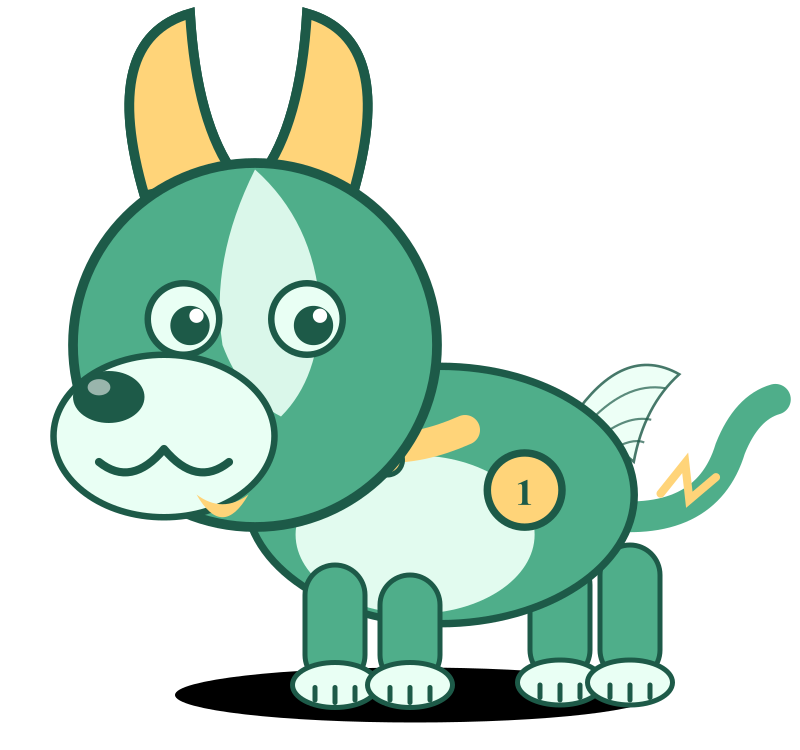
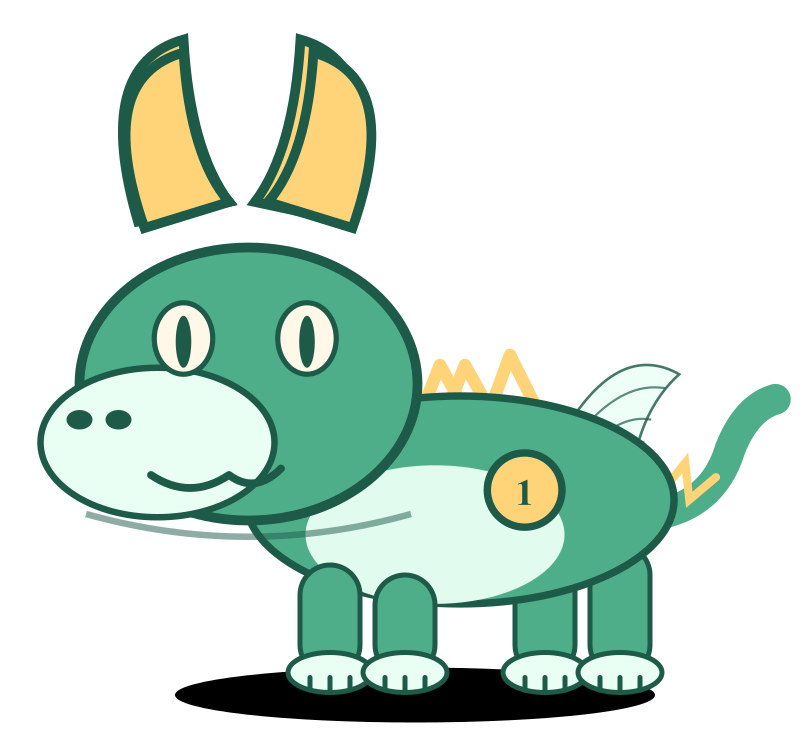
[DSM2001] feat: redesign six companion species silhouettes

Changed region(s): [[0.0312, 0.0, 0.8438, 0.9507]]

diff --git a/src/features/pet/CompanionAvatar.vue b/src/features/pet/CompanionAvatar.vue
@@ -22,15 +22,40 @@ interface Look {
   whiskers?: boolean
   cheeks?: boolean
   wings?: boolean
+  build: {
+    body: { cx: number; cy: number; rx: number; ry: number }
+    belly: { cx: number; cy: number; rx: number; ry: number }
+    head: { cx: number; cy: number; r: number }
+    legs: readonly { x: number; y: number; w: number; h: number }[]
+    tailWidth: number
+  }
 }
 
 const LOOKS: Record<CompanionId, Look> = {
-  'companion-cat': { name: '小猫', body: '#e8a25a', belly: '#fff3df', dark: '#8a5a2b', accent: '#ff9db0', ear: 'pointed', tail: 'curl', whiskers: true },
-  'companion-dog': { name: '小狗', body: '#c98a4b', belly: '#f7e6cf', dark: '#6b421f', accent: '#2fb9e8', ear: 'floppy', tail: 'up' },
-  'companion-hamster': { name: '仓鼠', body: '#d9a45b', belly: '#fff7e6', dark: '#8a5a2b', accent: '#ffb3c1', ear: 'round', tail: 'short', cheeks: true },
-  'companion-lion': { name: '狮子', body: '#d9a24f', belly: '#fff0d2', dark: '#6b421f', accent: '#ffd479', ear: 'round', tail: 'tuft', mane: true },
-  'companion-tiger': { name: '老虎', body: '#e08a3c', belly: '#fff1d6', dark: '#3a2412', accent: '#ffd479', ear: 'round', tail: 'striped', stripes: true },
-  'companion-dragon': { name: '龙', body: '#4fae8a', belly: '#e9fff4', dark: '#1d5a48', accent: '#ffd479', ear: 'horn', tail: 'spiked', wings: true },
+  'companion-cat': {
+    name: '小猫', body: '#e8a25a', belly: '#fff3df', dark: '#8a5a2b', accent: '#ff9db0', ear: 'pointed', tail: 'curl', whiskers: true,
+    build: { body: { cx: 176, cy: 198, rx: 78, ry: 52 }, belly: { cx: 166, cy: 214, rx: 48, ry: 32 }, head: { cx: 102, cy: 138, r: 56 }, legs: [{ x: 212, y: 222, w: 24, h: 50 }, { x: 240, y: 218, w: 24, h: 54 }, { x: 122, y: 226, w: 24, h: 48 }, { x: 152, y: 230, w: 24, h: 44 }], tailWidth: 15 },
+  },
+  'companion-dog': {
+    name: '小狗', body: '#c98a4b', belly: '#f7e6cf', dark: '#6b421f', accent: '#2fb9e8', ear: 'floppy', tail: 'up',
+    build: { body: { cx: 176, cy: 198, rx: 78, ry: 52 }, belly: { cx: 166, cy: 214, rx: 48, ry: 32 }, head: { cx: 102, cy: 138, r: 56 }, legs: [{ x: 212, y: 222, w: 24, h: 50 }, { x: 240, y: 218, w: 24, h: 54 }, { x: 122, y: 226, w: 24, h: 48 }, { x: 152, y: 230, w: 24, h: 44 }], tailWidth: 15 },
+  },
+  'companion-hamster': {
+    name: '仓鼠', body: '#d9a45b', belly: '#fff7e6', dark: '#8a5a2b', accent: '#ffb3c1', ear: 'round', tail: 'short', cheeks: true,
+    build: { body: { cx: 168, cy: 210, rx: 64, ry: 56 }, belly: { cx: 168, cy: 222, rx: 46, ry: 38 }, head: { cx: 108, cy: 156, r: 50 }, legs: [{ x: 198, y: 240, w: 20, h: 28 }, { x: 220, y: 242, w: 20, h: 26 }, { x: 134, y: 242, w: 20, h: 26 }, { x: 154, y: 244, w: 20, h: 24 }], tailWidth: 8 },
+  },
+  'companion-lion': {
+    name: '狮子', body: '#d9a24f', belly: '#fff0d2', dark: '#6b421f', accent: '#ffd479', ear: 'round', tail: 'tuft', mane: true,
+    build: { body: { cx: 182, cy: 198, rx: 86, ry: 54 }, belly: { cx: 172, cy: 214, rx: 52, ry: 34 }, head: { cx: 102, cy: 142, r: 58 }, legs: [{ x: 208, y: 220, w: 28, h: 52 }, { x: 238, y: 216, w: 28, h: 56 }, { x: 116, y: 224, w: 28, h: 48 }, { x: 148, y: 228, w: 28, h: 44 }], tailWidth: 15 },
+  },
+  'companion-tiger': {
+    name: '老虎', body: '#e08a3c', belly: '#fff1d6', dark: '#3a2412', accent: '#ffd479', ear: 'round', tail: 'striped', stripes: true,
+    build: { body: { cx: 180, cy: 194, rx: 88, ry: 46 }, belly: { cx: 170, cy: 208, rx: 52, ry: 30 }, head: { cx: 100, cy: 136, r: 58 }, legs: [{ x: 208, y: 216, w: 26, h: 56 }, { x: 238, y: 212, w: 26, h: 60 }, { x: 116, y: 220, w: 26, h: 52 }, { x: 148, y: 224, w: 26, h: 48 }], tailWidth: 17 },
+  },
+  'companion-dragon': {
+    name: '龙', body: '#4fae8a', belly: '#e9fff4', dark: '#1d5a48', accent: '#ffd479', ear: 'horn', tail: 'spiked', wings: true,
+    build: { body: { cx: 184, cy: 200, rx: 86, ry: 42 }, belly: { cx: 174, cy: 214, rx: 52, ry: 28 }, head: { cx: 100, cy: 146, r: 48 }, legs: [{ x: 206, y: 222, w: 24, h: 48 }, { x: 236, y: 218, w: 24, h: 52 }, { x: 120, y: 226, w: 24, h: 44 }, { x: 150, y: 230, w: 24, h: 40 }], tailWidth: 15 },
+  },
 }
 
 const props = defineProps<{ animalId: CompanionId; mood: number; level?: number }>()
@@ -43,6 +68,9 @@ let timer: number | undefined
 
 const look = computed(() => LOOKS[props.animalId] ?? LOOKS['companion-dog'])
 const isCat = computed(() => props.animalId === 'companion-cat')
+const isFeline = computed(() => isCat.value || props.animalId === 'companion-tiger' || props.animalId === 'companion-lion')
+const isHamster = computed(() => props.animalId === 'companion-hamster')
+const isDragon = computed(() => props.animalId === 'companion-dragon')
 const mood = computed(() => {
   const raw = Number.isFinite(props.mood) ? props.mood : 0
   return Math.min(100, Math.max(0, Math.round(raw)))
@@ -82,6 +110,9 @@ const wingTransform = computed(() => `translate(250 170) scale(${0.35 + params.v
 const svgStyle = computed(() => ({ filter: `saturate(${0.9 + params.value.feature * 0.3}) brightness(${1.02 - params.value.feature * 0.06})` }))
 const eyeR = computed(() => 11 - params.value.sharp * 1.5)
 const maneR = computed(() => 40 + params.value.feature * 60)
+
+const build = computed(() => look.value.build)
+const headOffsetTransform = computed(() => `translate(${build.value.head.cx - 102} ${build.value.head.cy - 138})`)
 
 const tailPath = computed(() => {
   switch (look.value.tail) {
@@ -123,7 +154,7 @@ onBeforeUnmount(() => { if (timer !== undefined) window.clearTimeout(timer) })
   >
     <svg viewBox="0 0 320 300" role="img" :style="svgStyle" :aria-label="`站立的${look.name}，Lv.${level}，心情 ${mood}/100`">
       <ellipse class="companion__shadow" cx="166" cy="278" rx="96" ry="11" />
-      <circle v-if="level >= 15" class="companion__aura" cx="160" cy="178" r="116" />
+      <circle v-if="level >= 15" class="companion__aura" cx="160" cy="178" r="116" fill="rgba(255,212,121,0.16)" />
 
       <!-- 龙翼（身体后面） -->
       <g v-if="look.wings" :transform="wingTransform">
@@ -136,7 +167,7 @@ onBeforeUnmount(() => { if (timer !== undefined) window.clearTimeout(timer) })
       <!-- 尾巴 -->
       <g :transform="tailTransform">
         <g class="companion__tail">
-        <path :d="tailPath" fill="none" :stroke="look.body" stroke-width="15" stroke-linecap="round" />
+        <path :d="tailPath" fill="none" :stroke="look.body" :stroke-width="build.tailWidth" stroke-linecap="round" />
         <path v-if="look.tail === 'spiked'" d="M270 196 l12 -15 l2 18 l13 -11" fill="none" :stroke="look.accent" stroke-width="4" stroke-linecap="round" />
         <circle v-if="look.tail === 'tuft'" cx="284" cy="160" r="14" :fill="look.dark" />
         <path v-if="look.tail === 'striped'" d="M262 194 l8 12 M274 178 l8 12 M284 160 l8 12" :stroke="look.dark" stroke-width="5" stroke-linecap="round" />
@@ -145,17 +176,24 @@ onBeforeUnmount(() => { if (timer !== undefined) window.clearTimeout(timer) })
 
       <!-- 后腿 -->
       <g :transform="legTransform" class="companion__legs companion__legs--back">
-        <rect x="212" y="222" width="24" height="50" rx="12" :fill="look.body" :stroke="look.dark" stroke-width="2" />
-        <rect x="240" y="218" width="24" height="54" rx="12" :fill="look.body" :stroke="look.dark" stroke-width="2" />
-        <ellipse cx="224" cy="273" rx="17" ry="9" :fill="look.belly" :stroke="look.dark" stroke-width="2" />
-        <ellipse cx="252" cy="273" rx="17" ry="9" :fill="look.belly" :stroke="look.dark" stroke-width="2" />
-        <path d="M216 274 v5 M224 274 v6 M232 274 v5 M244 274 v5 M252 274 v6 M260 274 v5" :stroke="look.dark" stroke-width="2" stroke-linecap="round" />
+        <template v-for="(leg, index) in build.legs.slice(0, 2)" :key="index">
+          <rect :x="leg.x" :y="leg.y" :width="leg.w" :height="leg.h" :rx="leg.w / 2" :fill="look.body" :stroke="look.dark" stroke-width="2" />
+          <ellipse :cx="leg.x + leg.w / 2" :cy="leg.y + leg.h - 1" :rx="leg.w * 0.7" :ry="8" :fill="look.belly" :stroke="look.dark" stroke-width="2" />
+          <path :d="`M${leg.x + 4} ${leg.y + leg.h + 1} v5 M${leg.x + leg.w / 2} ${leg.y + leg.h + 1} v6 M${leg.x + leg.w - 4} ${leg.y + leg.h + 1} v5`" :stroke="look.dark" stroke-width="2" stroke-linecap="round" />
+        </template>
+      </g>
+
+      <!-- 龙的脖子与背刺，拉长爬行动物轮廓 -->
+      <g v-if="isDragon" class="companion__dragon-neck" aria-hidden="true">
+        <path d="M112 162 Q132 184 168 194" fill="none" :stroke="look.body" stroke-width="38" stroke-linecap="round" />
+        <path d="M150 168 l8 -18 l10 16 l8 -20 l10 18" fill="none" :stroke="look.accent" stroke-width="5" stroke-linecap="round" stroke-linejoin="round" />
+        <path d="M178 166 l8 -20 l10 18 l8 -22 l10 20" fill="none" :stroke="look.accent" stroke-width="5" stroke-linecap="round" stroke-linejoin="round" />
       </g>
 
       <!-- 身体 -->
       <g :transform="bodyTransform">
-      <ellipse cx="176" cy="198" rx="78" ry="52" :fill="look.body" :stroke="look.dark" stroke-width="3" />
-      <ellipse cx="166" cy="214" rx="48" ry="32" :fill="look.belly" opacity="0.95" />
+      <ellipse :cx="build.body.cx" :cy="build.body.cy" :rx="build.body.rx" :ry="build.body.ry" :fill="look.body" :stroke="look.dark" stroke-width="3" />
+      <ellipse :cx="build.belly.cx" :cy="build.belly.cy" :rx="build.belly.rx" :ry="build.belly.ry" :fill="look.belly" opacity="0.95" />
 
       <!-- 老虎条纹 -->
       <g v-if="look.stripes" :stroke="look.dark" stroke-width="4" stroke-linecap="round" :opacity="0.25 + params.feature * 0.75">
@@ -179,18 +217,21 @@ onBeforeUnmount(() => { if (timer !== undefined) window.clearTimeout(timer) })
 
       <!-- 前腿 -->
       <g :transform="legTransform" class="companion__legs companion__legs--front">
-        <rect x="122" y="226" width="24" height="48" rx="12" :fill="look.body" :stroke="look.dark" stroke-width="2" />
-        <rect x="152" y="230" width="24" height="44" rx="12" :fill="look.body" :stroke="look.dark" stroke-width="2" />
-        <ellipse cx="134" cy="274" rx="17" ry="9" :fill="look.belly" :stroke="look.dark" stroke-width="2" />
-        <ellipse cx="164" cy="274" rx="17" ry="9" :fill="look.belly" :stroke="look.dark" stroke-width="2" />
-        <path d="M126 275 v5 M134 275 v6 M142 275 v5 M156 275 v5 M164 275 v6 M172 275 v5" :stroke="look.dark" stroke-width="2" stroke-linecap="round" />
+        <template v-for="(leg, index) in build.legs.slice(2, 4)" :key="index">
+          <rect :x="leg.x" :y="leg.y" :width="leg.w" :height="leg.h" :rx="leg.w / 2" :fill="look.body" :stroke="look.dark" stroke-width="2" />
+          <ellipse :cx="leg.x + leg.w / 2" :cy="leg.y + leg.h - 1" :rx="leg.w * 0.7" :ry="8" :fill="look.belly" :stroke="look.dark" stroke-width="2" />
+          <path :d="`M${leg.x + 4} ${leg.y + leg.h + 1} v5 M${leg.x + leg.w / 2} ${leg.y + leg.h + 1} v6 M${leg.x + leg.w - 4} ${leg.y + leg.h + 1} v5`" :stroke="look.dark" stroke-width="2" stroke-linecap="round" />
+        </template>
       </g>
 
-      <!-- 项圈 -->
-      <path d="M124 168 Q150 188 186 172" fill="none" :stroke="look.accent" stroke-width="12" stroke-linecap="round" />
-      <circle cx="155" cy="184" r="6" :fill="look.accent" :stroke="look.dark" stroke-width="2" />
+      <!-- 项圈只给家养伙伴（猫/狗），野生伙伴不戴 -->
+      <g v-if="isCat || animalId === 'companion-dog'">
+        <path d="M124 168 Q150 188 186 172" fill="none" :stroke="look.accent" stroke-width="12" stroke-linecap="round" />
+        <circle cx="155" cy="184" r="6" :fill="look.accent" :stroke="look.dark" stroke-width="2" />
+      </g>
 
       <g :transform="headTransform">
+      <g :transform="headOffsetTransform">
       <!-- 狮子鬃毛 -->
       <circle v-if="look.mane" cx="102" cy="138" :r="maneR" :fill="look.dark" opacity="0.95" />
 
@@ -217,30 +258,37 @@ onBeforeUnmount(() => { if (timer !== undefined) window.clearTimeout(timer) })
       </g>
 
       <!-- 猫专属圆脸：短吻、分离胡须垫、三角鼻、竖瞳 -->
-      <g v-if="isCat" class="companion__cat-face">
-        <g class="companion__cat-ears" aria-hidden="true">
+      <g v-if="isFeline" class="companion__cat-face">
+        <g v-if="isCat" class="companion__cat-ears" aria-hidden="true">
           <path d="M52 112 L37 45 Q36 38 44 42 L91 77 Z" :fill="look.body" :stroke="look.dark" stroke-width="3.5" stroke-linejoin="round" />
           <path d="M117 77 L164 42 Q172 38 171 45 L156 112 Z" :fill="look.body" :stroke="look.dark" stroke-width="3.5" stroke-linejoin="round" />
         </g>
-        <circle cx="102" cy="138" r="56" :fill="look.body" :stroke="look.dark" stroke-width="3" />
+        <g v-else class="companion__feline-round-ears" aria-hidden="true">
+          <circle cx="62" cy="99" r="17" :fill="look.body" :stroke="look.dark" stroke-width="3" />
+          <circle cx="142" cy="99" r="17" :fill="look.body" :stroke="look.dark" stroke-width="3" />
+          <circle cx="62" cy="99" r="9" :fill="look.accent" />
+          <circle cx="142" cy="99" r="9" :fill="look.accent" />
+        </g>
+        <circle v-if="look.mane" cx="102" cy="138" :r="maneR" :fill="look.dark" opacity="0.95" />
+        <circle cx="102" cy="138" :r="build.head.r" :fill="look.body" :stroke="look.dark" stroke-width="3" />
         <!-- 内耳粉瓣 -->
-        <g data-feature="cat-inner-ears" aria-hidden="true">
+        <g v-if="isCat" data-feature="cat-inner-ears" aria-hidden="true">
           <path d="M49 89 L44 53 L72 78 Z M132 78 L160 53 L155 89 Z" :fill="look.accent" />
         </g>
         <!-- Lv10 后的颊毛放在脸外沿，不遮眼鼻 -->
-        <g v-if="level >= 10" class="companion__cat-tufts" aria-hidden="true">
+        <g v-if="isCat && level >= 10" class="companion__cat-tufts" aria-hidden="true">
           <path d="M54 151 L31 145 L46 161 L29 169 L53 177 Z" :fill="look.body" :stroke="look.dark" stroke-width="2.5" />
           <path d="M150 151 L173 145 L158 161 L175 169 L151 177 Z" :fill="look.body" :stroke="look.dark" stroke-width="2.5" />
         </g>
         <!-- 猫咪额心斑 -->
-        <path d="M102 89 Q96 106 100 116 Q102 120 104 116 Q108 106 102 89 Z" :fill="look.belly" opacity="0.48" />
+        <path v-if="isCat" d="M102 89 Q96 106 100 116 Q102 120 104 116 Q108 106 102 89 Z" :fill="look.belly" opacity="0.48" />
         <!-- 分开的左右胡须垫 -->
         <g data-feature="cat-whisker-pads">
           <ellipse cx="70" cy="160" rx="16" ry="12" :fill="look.belly" :stroke="look.dark" stroke-width="1.8" />
           <ellipse cx="116" cy="160" rx="16" ry="12" :fill="look.belly" :stroke="look.dark" stroke-width="1.8" />
         </g>
         <!-- 两侧各三根猫须，从垫外侧发出 -->
-        <g class="companion__cat-whiskers" :stroke="look.dark" stroke-width="1.7" stroke-linecap="round" opacity="0.82">
+        <g v-if="isCat" class="companion__cat-whiskers" :stroke="look.dark" stroke-width="1.7" stroke-linecap="round" opacity="0.82">
           <path d="M55 156 L25 148 M54 161 L19 161 M55 166 L27 176" />
           <path d="M127 156 L159 148 M128 161 L165 161 M127 166 L157 176" />
         </g>
@@ -249,7 +297,7 @@ onBeforeUnmount(() => { if (timer !== undefined) window.clearTimeout(timer) })
         <path d="M93 160 L93 165 M93 165 Q86 172 79 167 M93 165 Q100 172 107 167" fill="none" :stroke="look.dark" stroke-width="2.4" stroke-linecap="round" />
         <path v-if="!low" d="M86 177 Q93 190 100 177 Q93 184 86 177 Z" :fill="look.accent" />
         <!-- 竖瞳猫眼 -->
-        <g v-if="!low" data-feature="cat-vertical-pupils">
+        <g v-if="!low && isCat" data-feature="cat-vertical-pupils">
           <ellipse cx="76" cy="127" rx="10" ry="12" fill="#fff8e8" :stroke="look.dark" stroke-width="1.6" />
           <ellipse cx="118" cy="127" rx="10" ry="12" fill="#fff8e8" :stroke="look.dark" stroke-width="1.6" />
           <ellipse cx="76" cy="128" rx="3.2" ry="8" :fill="look.dark" />
@@ -257,12 +305,63 @@ onBeforeUnmount(() => { if (timer !== undefined) window.clearTimeout(timer) })
           <circle cx="77" cy="124" r="2" fill="#fff" />
           <circle cx="119" cy="124" r="2" fill="#fff" />
         </g>
+        <g v-else-if="!low" class="companion__feline-round-pupils">
+          <ellipse cx="76" cy="127" rx="10" ry="12" fill="#fff8e8" :stroke="look.dark" stroke-width="1.6" />
+          <ellipse cx="118" cy="127" rx="10" ry="12" fill="#fff8e8" :stroke="look.dark" stroke-width="1.6" />
+          <circle cx="77" cy="128" r="5" :fill="look.dark" />
+          <circle cx="119" cy="128" r="5" :fill="look.dark" />
+          <circle cx="78" cy="124" r="2" fill="#fff" />
+          <circle cx="120" cy="124" r="2" fill="#fff" />
+        </g>
         <g v-else class="companion__cat-sleepy-eyes">
           <path d="M66 130 Q76 123 86 130 M108 130 Q118 123 128 130" fill="none" :stroke="look.dark" stroke-width="2.8" stroke-linecap="round" />
         </g>
       </g>
 
-      <!-- 非猫伙伴保持原有犬科圆鼻/宽吻与各自耳型 -->
+      <!-- 仓鼠：圆脸、小米粒耳、鼓腮 -->
+      <g v-else-if="isHamster" class="companion__hamster-face">
+        <circle cx="58" cy="104" r="13" :fill="look.body" :stroke="look.dark" stroke-width="2.5" />
+        <circle cx="146" cy="104" r="13" :fill="look.body" :stroke="look.dark" stroke-width="2.5" />
+        <circle cx="58" cy="104" r="6" :fill="look.accent" />
+        <circle cx="146" cy="104" r="6" :fill="look.accent" />
+        <circle cx="102" cy="138" :r="build.head.r" :fill="look.body" :stroke="look.dark" stroke-width="3" />
+        <ellipse cx="62" cy="160" rx="28" ry="22" :fill="look.belly" :stroke="look.dark" stroke-width="1.8" />
+        <ellipse cx="142" cy="160" rx="28" ry="22" :fill="look.belly" :stroke="look.dark" stroke-width="1.8" />
+        <ellipse cx="102" cy="160" rx="24" ry="18" :fill="look.belly" />
+        <ellipse cx="102" cy="153" rx="6" ry="5" :fill="look.accent" :stroke="look.dark" stroke-width="1.5" />
+        <path d="M102 158 L102 164 M102 164 Q96 170 90 166 M102 164 Q108 170 114 166" fill="none" :stroke="look.dark" stroke-width="2.4" stroke-linecap="round" />
+        <path d="M96 166 L96 172 M108 166 L108 172" :stroke="look.belly" stroke-width="3" stroke-linecap="round" />
+        <g v-if="!low">
+          <circle cx="82" cy="128" r="9" :fill="look.belly" :stroke="look.dark" stroke-width="1.6" />
+          <circle cx="122" cy="128" r="9" :fill="look.belly" :stroke="look.dark" stroke-width="1.6" />
+          <circle cx="83" cy="129" r="5" :fill="look.dark" />
+          <circle cx="123" cy="129" r="5" :fill="look.dark" />
+          <circle cx="84" cy="126" r="1.8" fill="#fff" />
+          <circle cx="124" cy="126" r="1.8" fill="#fff" />
+        </g>
+        <g v-else><path d="M73 130 Q82 124 91 130 M113 130 Q122 124 131 130" fill="none" :stroke="look.dark" stroke-width="2.6" stroke-linecap="round" /></g>
+      </g>
+
+      <!-- 龙：长吻爬行动物头，不用狗耳狗鼻 -->
+      <g v-else-if="isDragon" class="companion__dragon-face">
+        <path d="M70 94 Q54 48 82 40 Q84 72 96 86 Z" :fill="look.accent" :stroke="look.dark" stroke-width="3" />
+        <path d="M134 94 Q150 48 122 40 Q120 72 108 86 Z" :fill="look.accent" :stroke="look.dark" stroke-width="3" />
+        <ellipse cx="102" cy="142" rx="52" ry="42" :fill="look.body" :stroke="look.dark" stroke-width="3" />
+        <ellipse cx="74" cy="160" rx="36" ry="23" :fill="look.belly" :stroke="look.dark" stroke-width="2" />
+        <ellipse cx="50" cy="153" rx="4" ry="3" :fill="look.dark" />
+        <ellipse cx="62" cy="153" rx="4" ry="3" :fill="look.dark" />
+        <path d="M72 170 Q84 178 96 170 M96 170 Q104 176 112 168" fill="none" :stroke="look.dark" stroke-width="2.4" stroke-linecap="round" />
+        <g v-if="!low">
+          <ellipse cx="82" cy="128" rx="9" ry="11" fill="#fff8e8" :stroke="look.dark" stroke-width="1.6" />
+          <ellipse cx="120" cy="128" rx="9" ry="11" fill="#fff8e8" :stroke="look.dark" stroke-width="1.6" />
+          <ellipse cx="82" cy="129" rx="2.4" ry="8" :fill="look.dark" />
+          <ellipse cx="120" cy="129" rx="2.4" ry="8" :fill="look.dark" />
+        </g>
+        <g v-else><path d="M73 130 Q82 124 91 130 M111 130 Q120 124 129 130" fill="none" :stroke="look.dark" stroke-width="2.6" stroke-linecap="round" /></g>
+        <path d="M52 182 Q102 196 152 182" fill="none" :stroke="look.dark" stroke-width="2" opacity="0.5" />
+      </g>
+
+      <!-- 其余伙伴保持原有犬科圆鼻/宽吻与各自耳型 -->
       <g v-else class="companion__generic-face">
         <!-- 狮子鬃毛 -->
         <circle v-if="look.mane" cx="102" cy="138" :r="maneR" :fill="look.dark" opacity="0.95" />
@@ -281,7 +380,7 @@ onBeforeUnmount(() => { if (timer !== undefined) window.clearTimeout(timer) })
           <path d="M68 92 Q54 44 82 36 Q84 70 96 86 Z" :fill="look.accent" :stroke="look.dark" stroke-width="3" />
           <path d="M132 92 Q146 44 118 36 Q116 70 104 86 Z" :fill="look.accent" :stroke="look.dark" stroke-width="3" />
         </g>
-        <circle cx="102" cy="138" r="56" :fill="look.body" :stroke="look.dark" stroke-width="3" />
+        <circle cx="102" cy="138" :r="build.head.r" :fill="look.body" :stroke="look.dark" stroke-width="3" />
         <path d="M102 84 Q88 112 92 138 Q98 154 110 160 Q122 148 122 126 Q120 100 102 84 Z" :fill="look.belly" opacity="0.9" />
         <g v-if="look.stripes" :stroke="look.dark" stroke-width="4" stroke-linecap="round" opacity="0.9">
           <path d="M78 100 l-6 16 M96 96 l0 14 M114 100 l6 16" />
@@ -308,12 +407,13 @@ onBeforeUnmount(() => { if (timer !== undefined) window.clearTimeout(timer) })
 
       <!-- 龙角尖光 -->
       <circle v-if="look.wings" cx="292" cy="144" r="4" :fill="look.accent" />
-      </g>
 
-      <!-- 等级徽记 -->
-      <g v-if="level >= 12" class="companion__crest" aria-hidden="true">
-        <path d="M124 62 L138 92 L160 76 L182 92 L196 62 L186 112 L134 112 Z" :fill="look.accent" :stroke="look.dark" stroke-width="2.5" stroke-linejoin="round" />
-        <circle cx="160" cy="96" r="4" :fill="look.dark" />
+      <!-- 皇冠固定在头顶，随头围缩放 -->
+      <g v-if="level >= 12" class="companion__crest" aria-hidden="true" :transform="`translate(102 ${138 - build.head.r - 8}) scale(${build.head.r / 56})`">
+        <path d="M-28 -8 L-14 14 L0 2 L14 14 L28 -8 L22 30 L-22 30 Z" :fill="look.accent" :stroke="look.dark" stroke-width="3" stroke-linejoin="round" />
+        <circle cx="0" cy="16" r="4" :fill="look.dark" />
+      </g>
+      </g>
       </g>
     </svg>
   </button>

diff --git a/tests/features/pet/CompanionAvatar.test.ts b/tests/features/pet/CompanionAvatar.test.ts
@@ -12,7 +12,7 @@ describe('CompanionAvatar', () => {
     expect(view.findAll('.companion__legs rect')).toHaveLength(4)
     expect(view.find('.companion__tail').exists()).toBe(true)
     expect(view.findAll('ellipse').length).toBeGreaterThan(4)
-    expect(view.findAll('circle').length).toBeGreaterThan(4)
+    expect(view.findAll('circle, ellipse').length).toBeGreaterThan(8)
   })
 
   it('小猫使用猫科脸型，明显区别于小狗', () => {

diff --git a/docs/superpowers/specs/2026-11-10-cat-avatar-redesign-design.md b/docs/superpowers/specs/2026-11-10-cat-avatar-redesign-design.md
@@ -1,0 +1,65 @@
+# 小猫伙伴形象重设计
+
+- 日期：2026-11-10
+- 状态：设计已确认，待规格审查
+- 范围：只重做 `CompanionAvatar.vue` 中小猫的脸部造型，解决与小狗过于相似的问题
+
+## 目标
+
+小猫要一眼能认出来是猫，不再像“尖耳小狗”。保留六种伙伴统一的全身站立、圆润幼崽风和等级成长结构，只增加猫科清晰特征。小狗及另外四种伙伴不得回归变化。
+
+## 方案
+
+采用“圆脸萌猫”的 SVG 专属脸部层：
+
+- 小而清楚的倒三角鼻，放在短小口鼻区域中央；
+- 左右分开的圆润胡须垫，不与狗的大块宽吻共用形状；
+- 胡须从胡须垫外缘向左右延伸，每侧三根，不穿过鼻口；
+- 正常心情的瞳孔为猫科竖椭圆，仍保留高光；
+- 耳朵有独立浅粉内耳；
+- 尖耳、长弯尾、Lv.10+ 颊毛保留，但颊毛不得遮挡眼、鼻、胡须垫。
+
+小狗继续使用当前宽圆黑鼻、较宽较长的口鼻、垂耳与狗形嘴线。狗不显示猫的三角鼻、胡须垫或竖瞳。
+
+## 实现边界
+
+- 新增/拆出猫脸局部模板，不改共享身体、四肢、爪、尾、成长参数、经验、等级、状态和动画事件。
+- 面部绘制仍在 `CompanionAvatar.vue` 内，用 `animalId === 'companion-cat'` 选择猫脸分支；不要另建第二套组件以免重复全身结构。
+- 低心情下猫使用半闭眼曲线，鼻、胡须垫、耳内瓣继续保留。
+- 保持 `role="img"`、伙伴名称和心情的可访问名称，以及现有点击 tap 回调。
+
+## 验收标准
+
+1. 猫 SVG 有倒三角鼻、两块分离胡须垫、左右各三根胡须、竖瞳与耳内瓣。
+2. 狗仍有当前宽鼻/宽口鼻/垂耳；不存在猫专属胡须垫、竖瞳或耳瓣。
+3. 六种动物的完整身体、四肢爪、尾巴和成长等级均不改变。
+4. 正常/低心情都保持猫科辨识点，面部元素无重叠遮挡。
+5. 参数化组件测试覆盖猫/狗差异；渲染猫狗 Lv.1 与 Lv.15 预览并人工检查。
+6. 完整 Vitest、type-check、build 通过。
+
+## 非目标
+
+- 不改六种伙伴的其它造型。
+- 不改 Lv.1–15 的成长曲线、成长参数或等级奖励。
+- 不改宠物房布局、盲盒、商店或宠物互动奖励。
+- 不使用外部图片素材或新动画依赖。
+
+## 工作区状态与安全
+
+实现前须查看当前 `git status`。已有未提交改动必须原样保留；只提交本功能相关文件，不执行 reset、stash pop 或覆盖已有改动。
+
+## 自检
+
+- 需求只涉及小猫外观，范围限定到单个头像组件与相应测试。
+- 猫与狗的轮廓差异写成可测试的具体要求。
+- 成长缩放/低心情/高等级颊毛交互均有验收条款。
+- 没有依赖占位、待定的交付项目。
+
+## 用户确认
+
+用户已确认猫脸方向：圆脸萌猫，三角鼻、分离胡须垫、竖瞳；狗保持宽鼻、长吻、垂耳。用户已确认该技术设计。
+
+## 参考
+
+原创 SVG，不复制外部素材。依据用户要求“猫不要像狗”，以猫科面部差异（鼻、吻部、胡须垫、瞳孔、耳内瓣）提高识别度。
+
